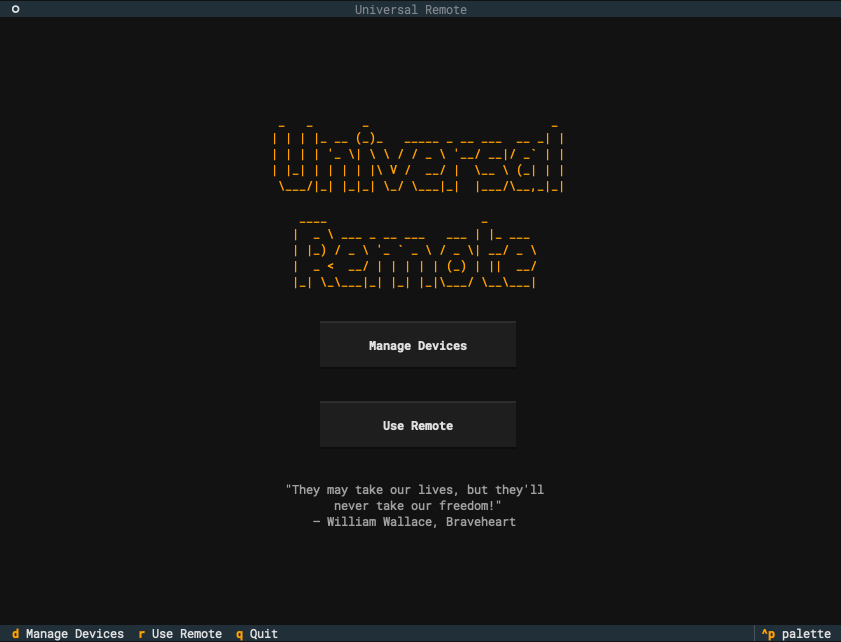
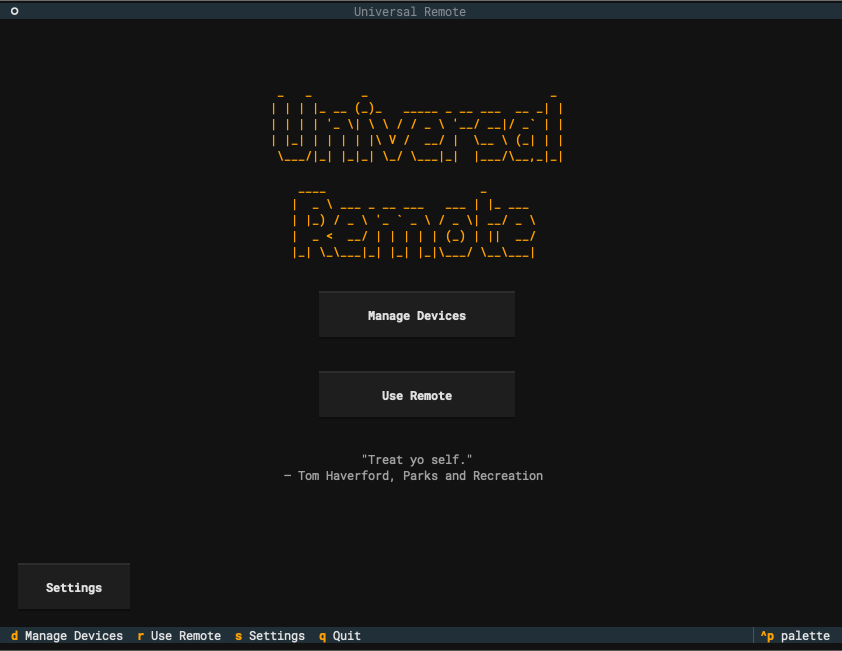
docs: add Settings screenshot and refresh home screenshot
Update home.png to show the new bottom-left Settings button and its
footer hint, and add settings.png alongside the README's Settings
section.

diff --git a/README.md b/README.md
@@ -152,6 +152,8 @@ returns to the menu:
 - **Open in GitHub** — opens the project repository in your browser.
 - **Version** — shows the installed app version (a non-interactive label).
 
+![Settings](docs/screenshots/settings.png)
+
 ### Keyboard tricks & other niceties
 
 - **Vim-style navigation.** `h` `j` `k` `l` move through menus and lists